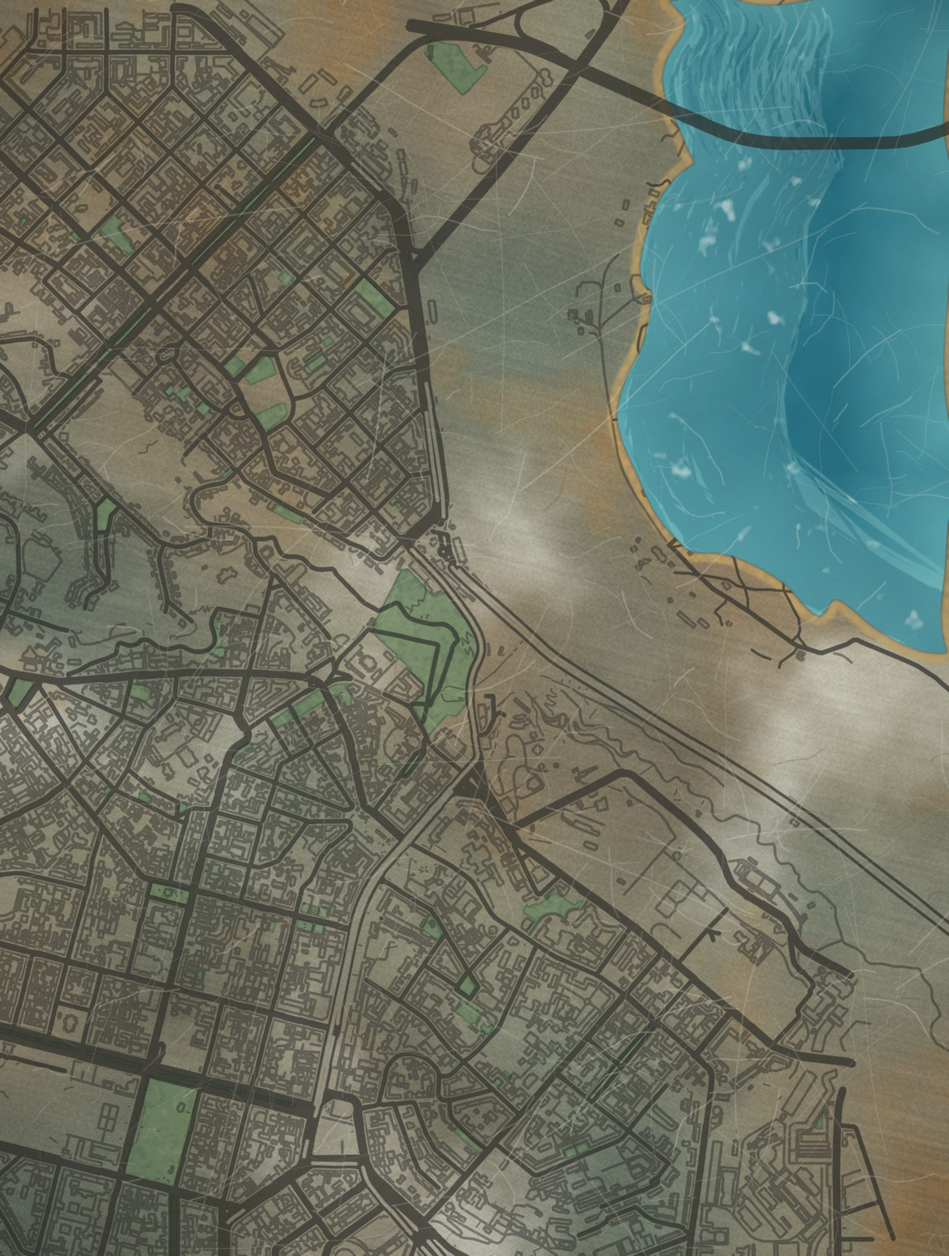
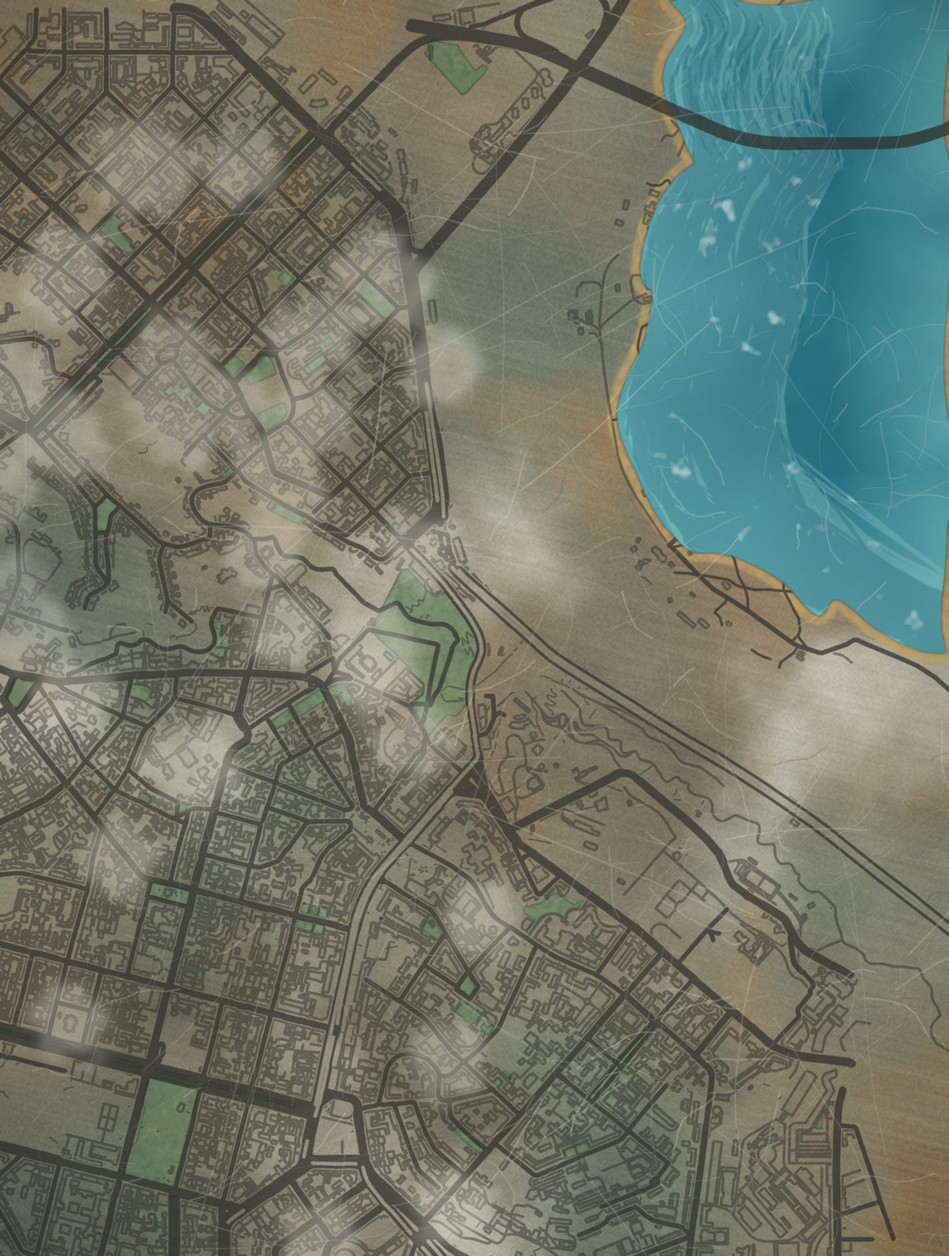
Світлі плями на місці церков і храмів (за даними OSM)
Claude-Session: https://claude.ai/code/session_015kGzzFvnktCL3RG7bCk629

diff --git a/tools/gen_map.py b/tools/gen_map.py
@@ -212,6 +212,34 @@ out=mix(out,tex*0.85+C(196,192,172)*0.15,gp*rd*0.9)
 out=mix(out,inkcol,th*0.62*(1-wmf))
 out=mix(out,ink*0.9+tex*0.1,edge*0.35)
 out=mix(out,C(228,226,214),sc_w*0.3)
+# ---- світлі плями на місці церков і інших храмів
+cp=np.zeros((H,W),np.float32)
+churches=[]
+for f in GJ:
+    p=f['properties']
+    if p.get('building') in('church','cathedral','chapel','synagogue') or p.get('amenity')=='place_of_worship' or p.get('religion'):
+        if p.get('religion')=='pagan': continue
+        g_=f['geometry']; c_=g_['coordinates'][0] if g_['type']=='Polygon' else g_['coordinates']
+        try: pts=np.array([P(*q) for q in c_]); churches.append(pts.mean(axis=0))
+        except Exception: pass
+# об'єднуємо дуже близькі
+merged=[]
+for c in churches:
+    for m in merged:
+        if np.hypot(*(m[0]-c))<45: m[0]=(m[0]*m[1]+c)/(m[1]+1); m[1]+=1; break
+    else: merged.append([c,1])
+print('плям',len(merged))
+nz1=noise(25,31); nz2=noise(9,32)
+for (c,k) in merged:
+    r=78+18*min(k,3)
+    d=np.hypot(xx-c[0],yy-c[1])
+    wob_=1+0.28*(nz1-0.5)*2+0.12*(nz2-0.5)*2
+    v=np.clip((1-d/(r*wob_))*2.4,0,1); v=v*v*(3-2*v)
+    cp=np.maximum(cp,v)
+cp=cv2.GaussianBlur(cp,(0,0),10)*(0.82+0.3*noise(30,33))
+streak=np.clip(0.75+0.5*(st[...,0] if st.ndim>2 else st),0.4,1.3) if False else 1
+out=out+(C(240,238,224)-out)*np.clip(cp*0.36,0,0.36)[...,None]
+
 out+=(R.random((H,W)).astype(np.float32)[...,None]-0.5)*7
 vig=np.clip(((xx/W-0.5)**2+(yy/H-0.5)**2)*1.6,0,1)
 out=out*(1-0.22*vig[...,None])
